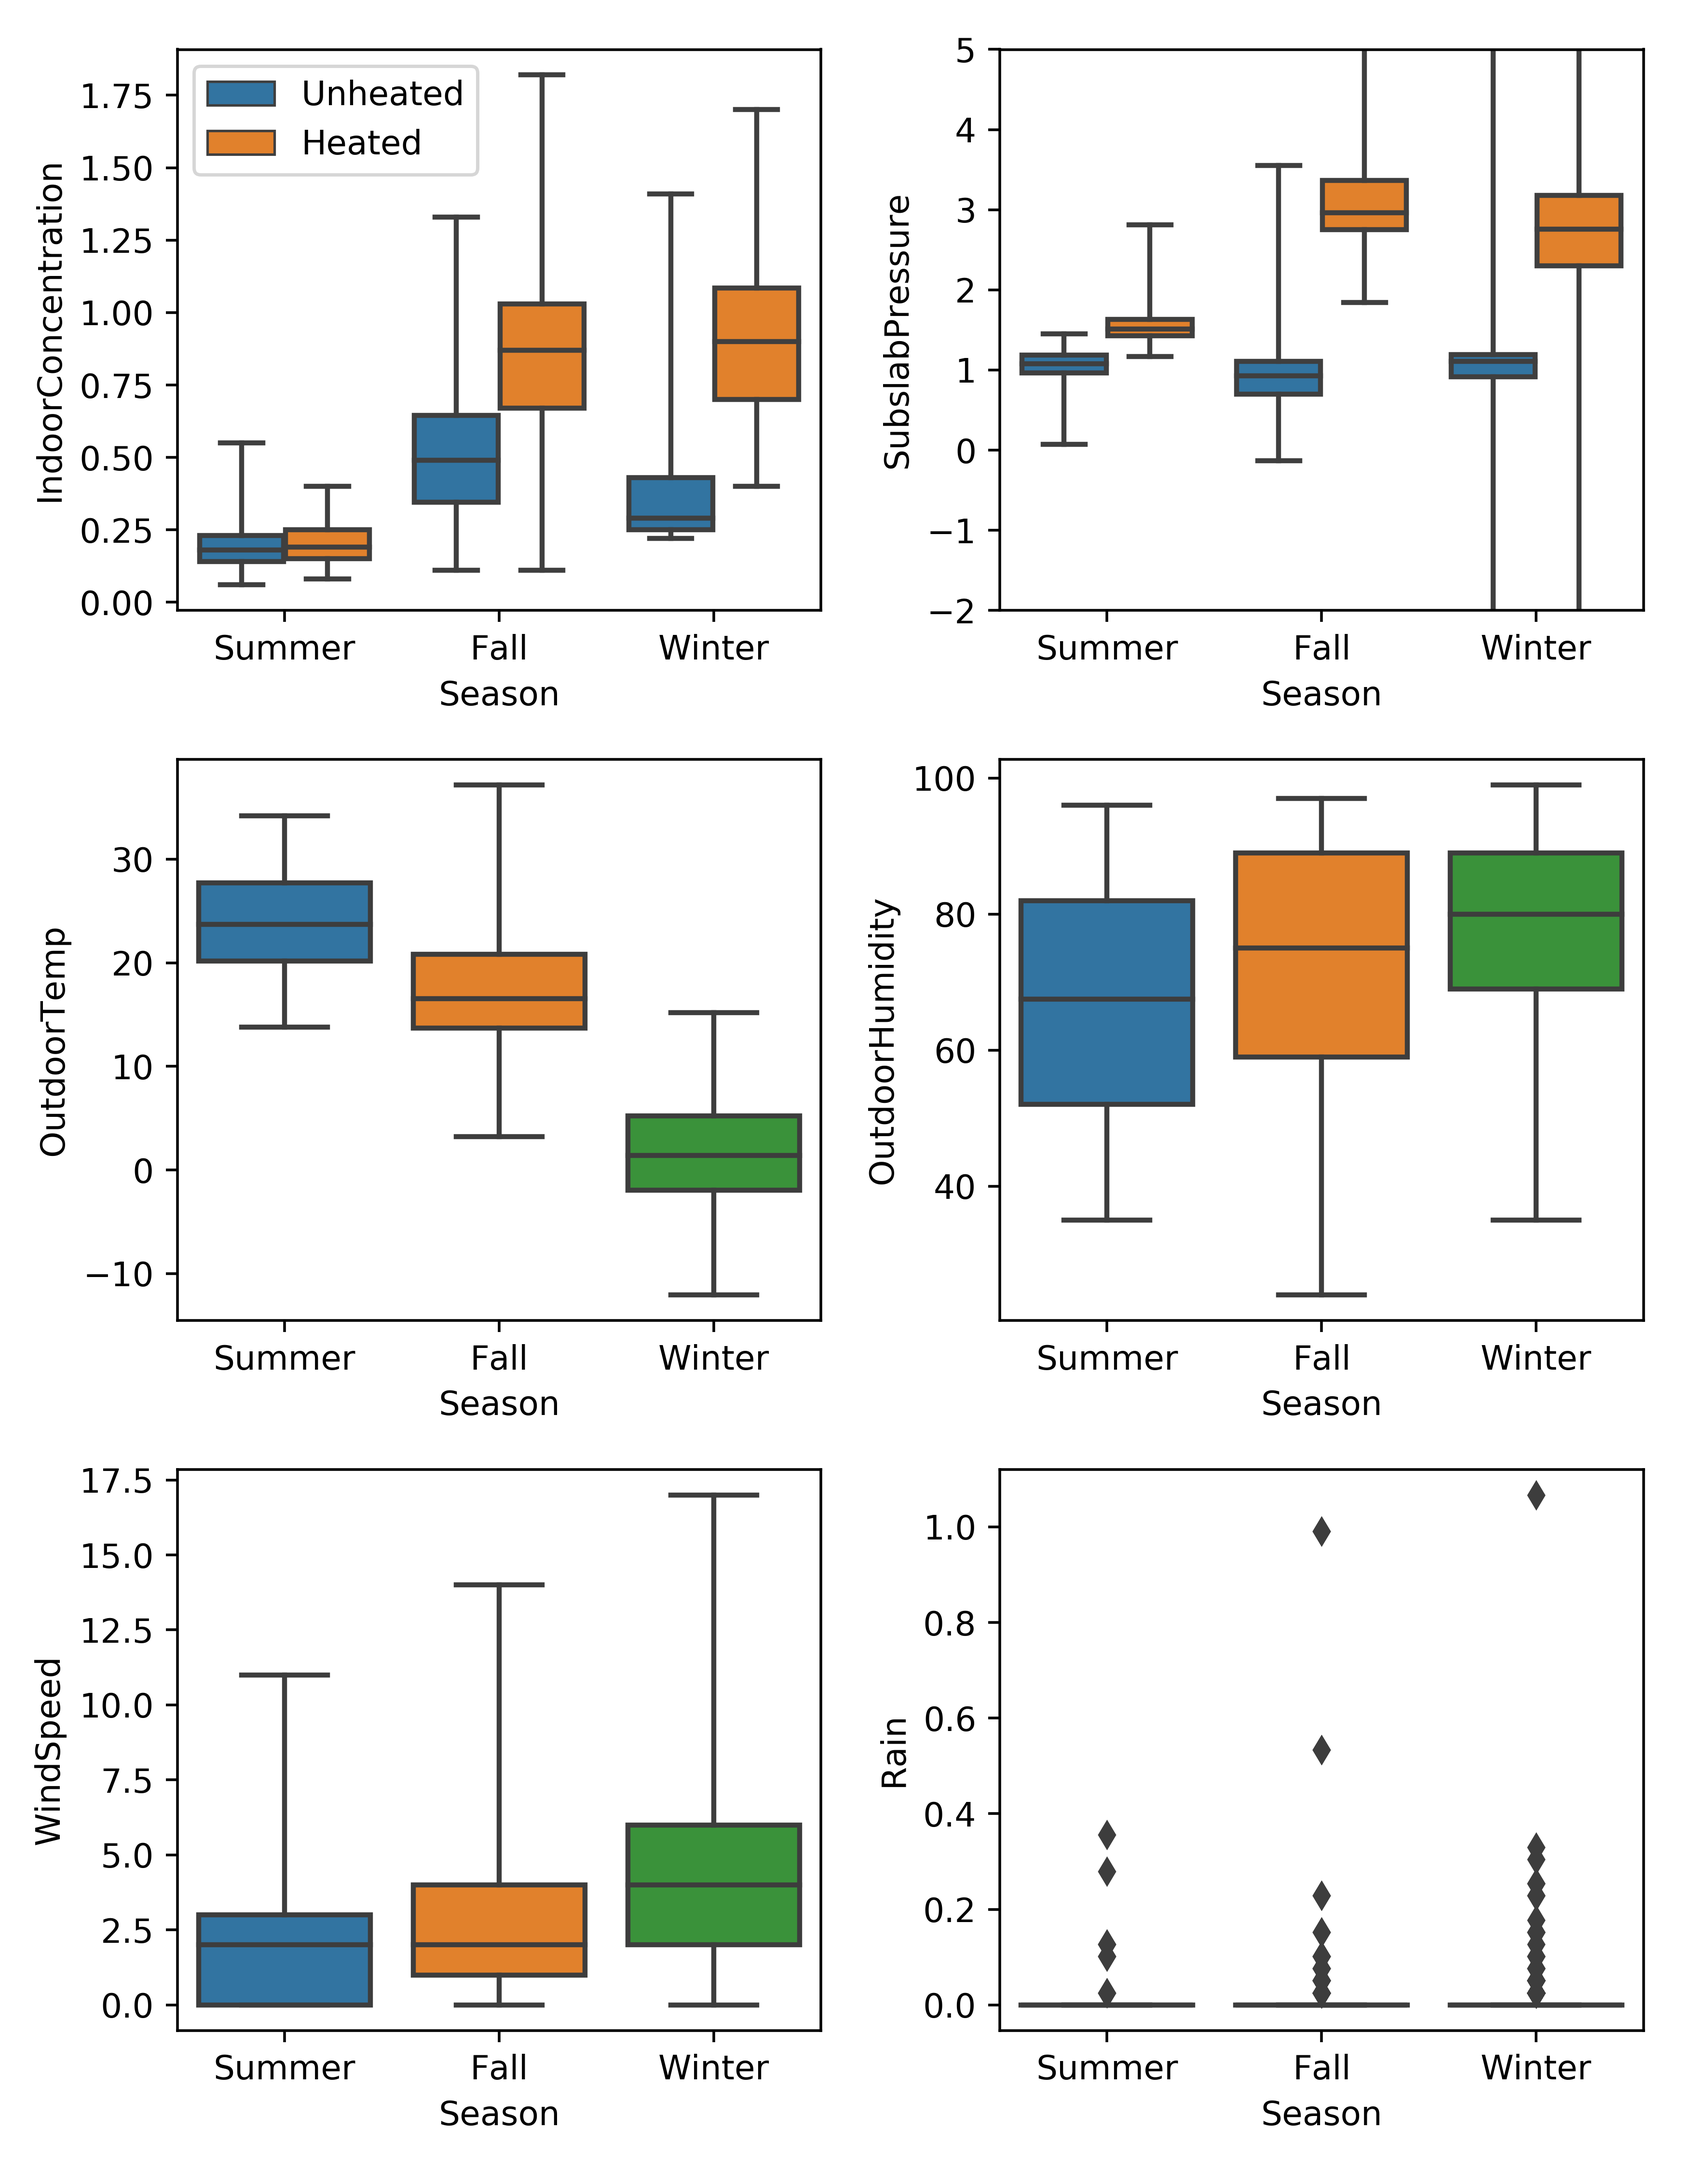
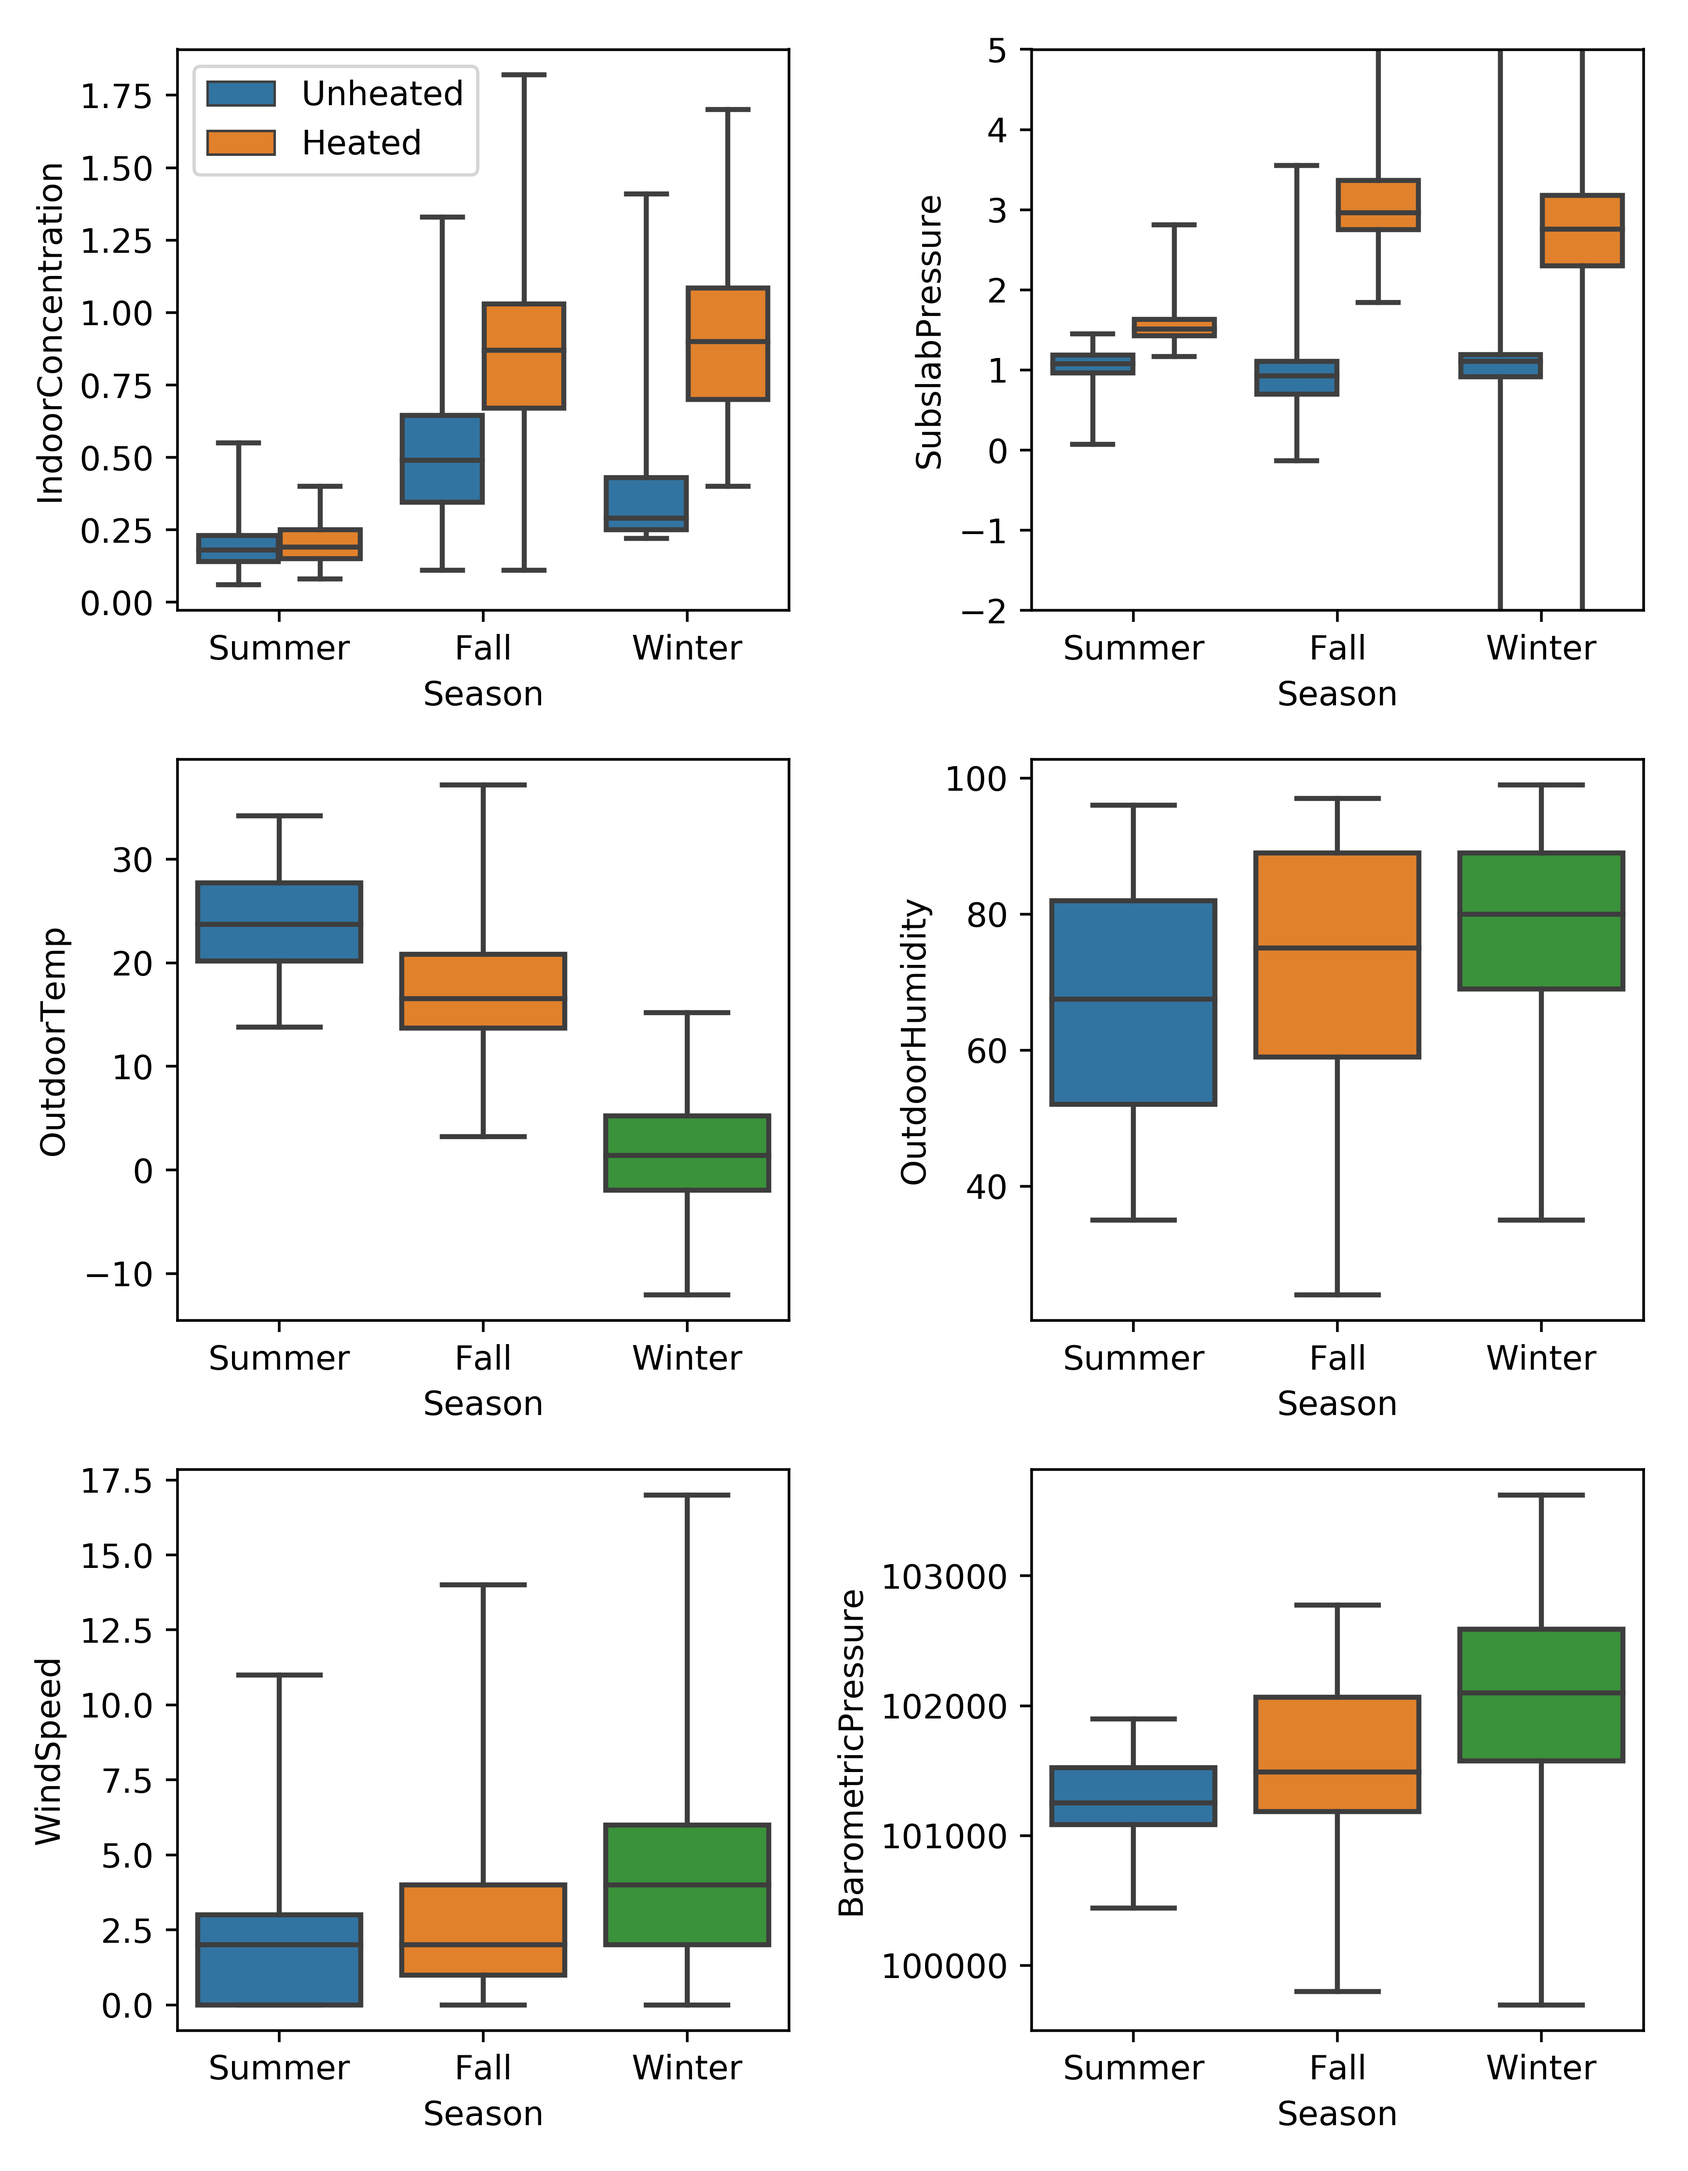
Plotting barometric pressure instead

diff --git a/code/figures.py b/code/figures.py
@@ -220,7 +220,7 @@ class Meeting:
             'OutdoorTemp',
             'OutdoorHumidity',
             'WindSpeed',
-            'Rain',
+            'BarometricPressure',
         ]
         for col, ax in zip(bottom_cols, axes.flatten()[2:]):
             sns.boxplot(
@@ -246,8 +246,8 @@ class Meeting:
         return
 
 meeting_plots = Meeting()
-meeting_plots.concentration_timeseries()
+#meeting_plots.concentration_timeseries()
 #meeting_plots.heated_vs_unheated()
 #meeting_plots.correlations()
 #meeting_plots.pressure()
-#meeting_plots.seasonal_distributions()
+meeting_plots.seasonal_distributions()
